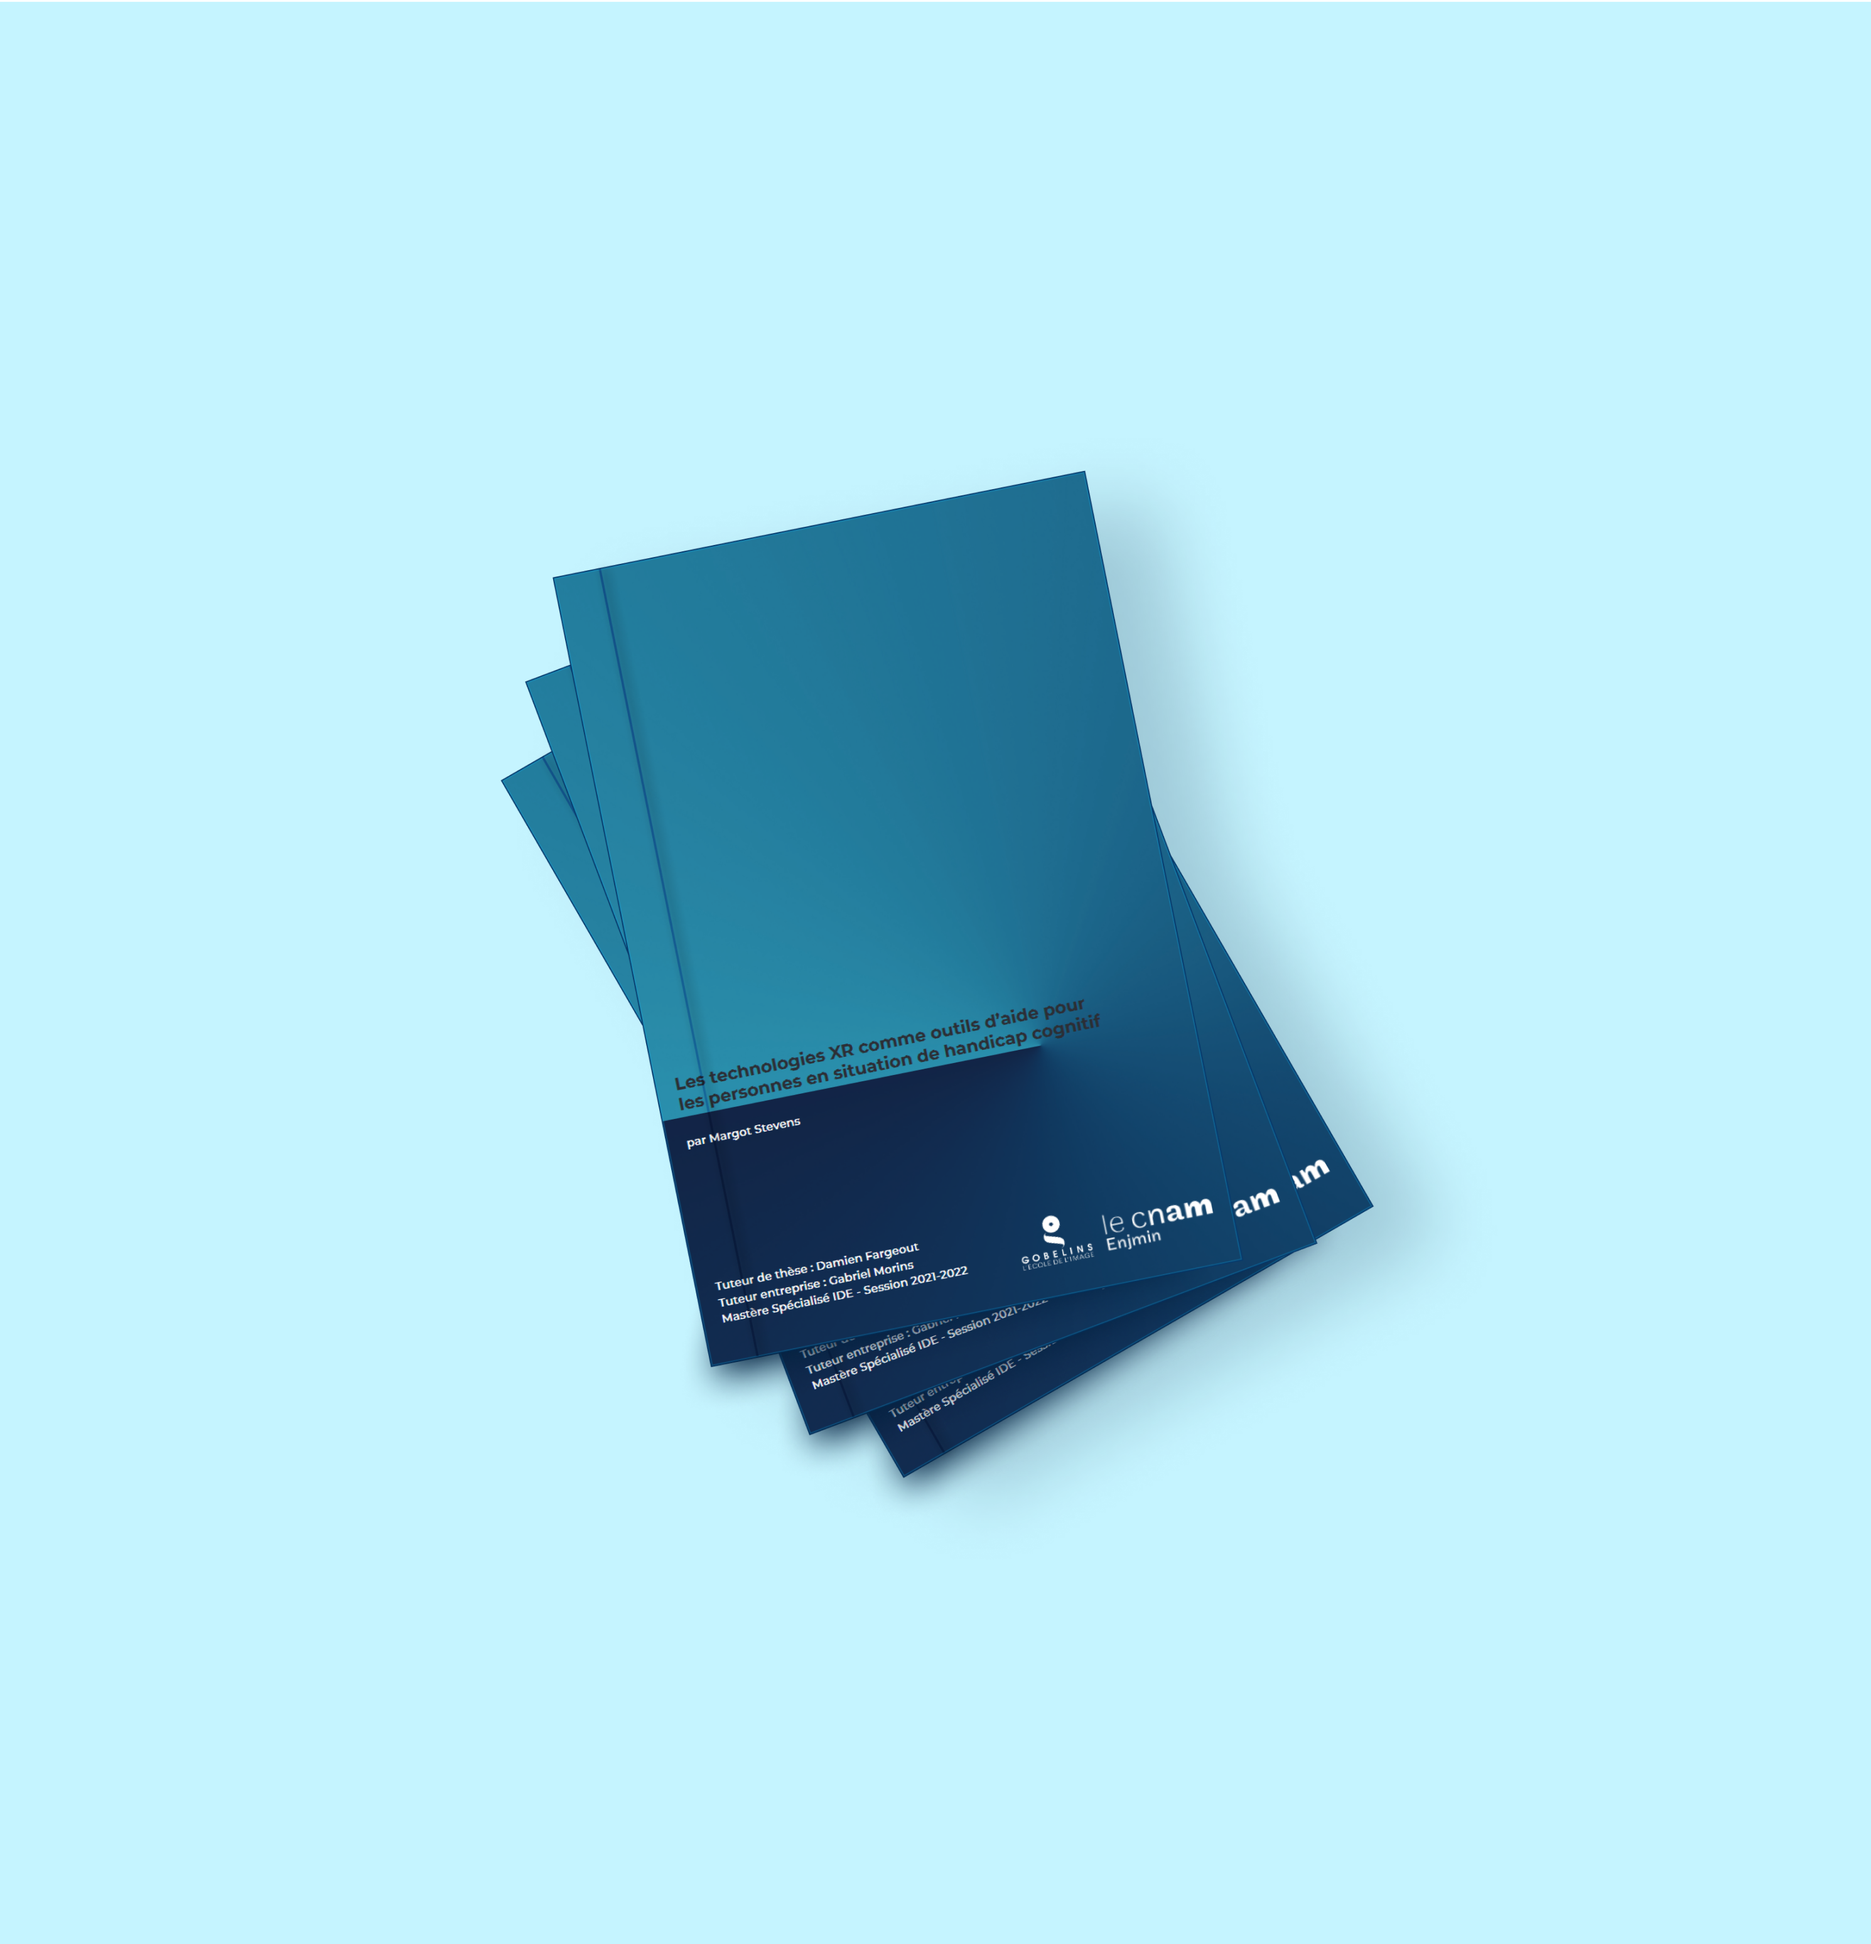
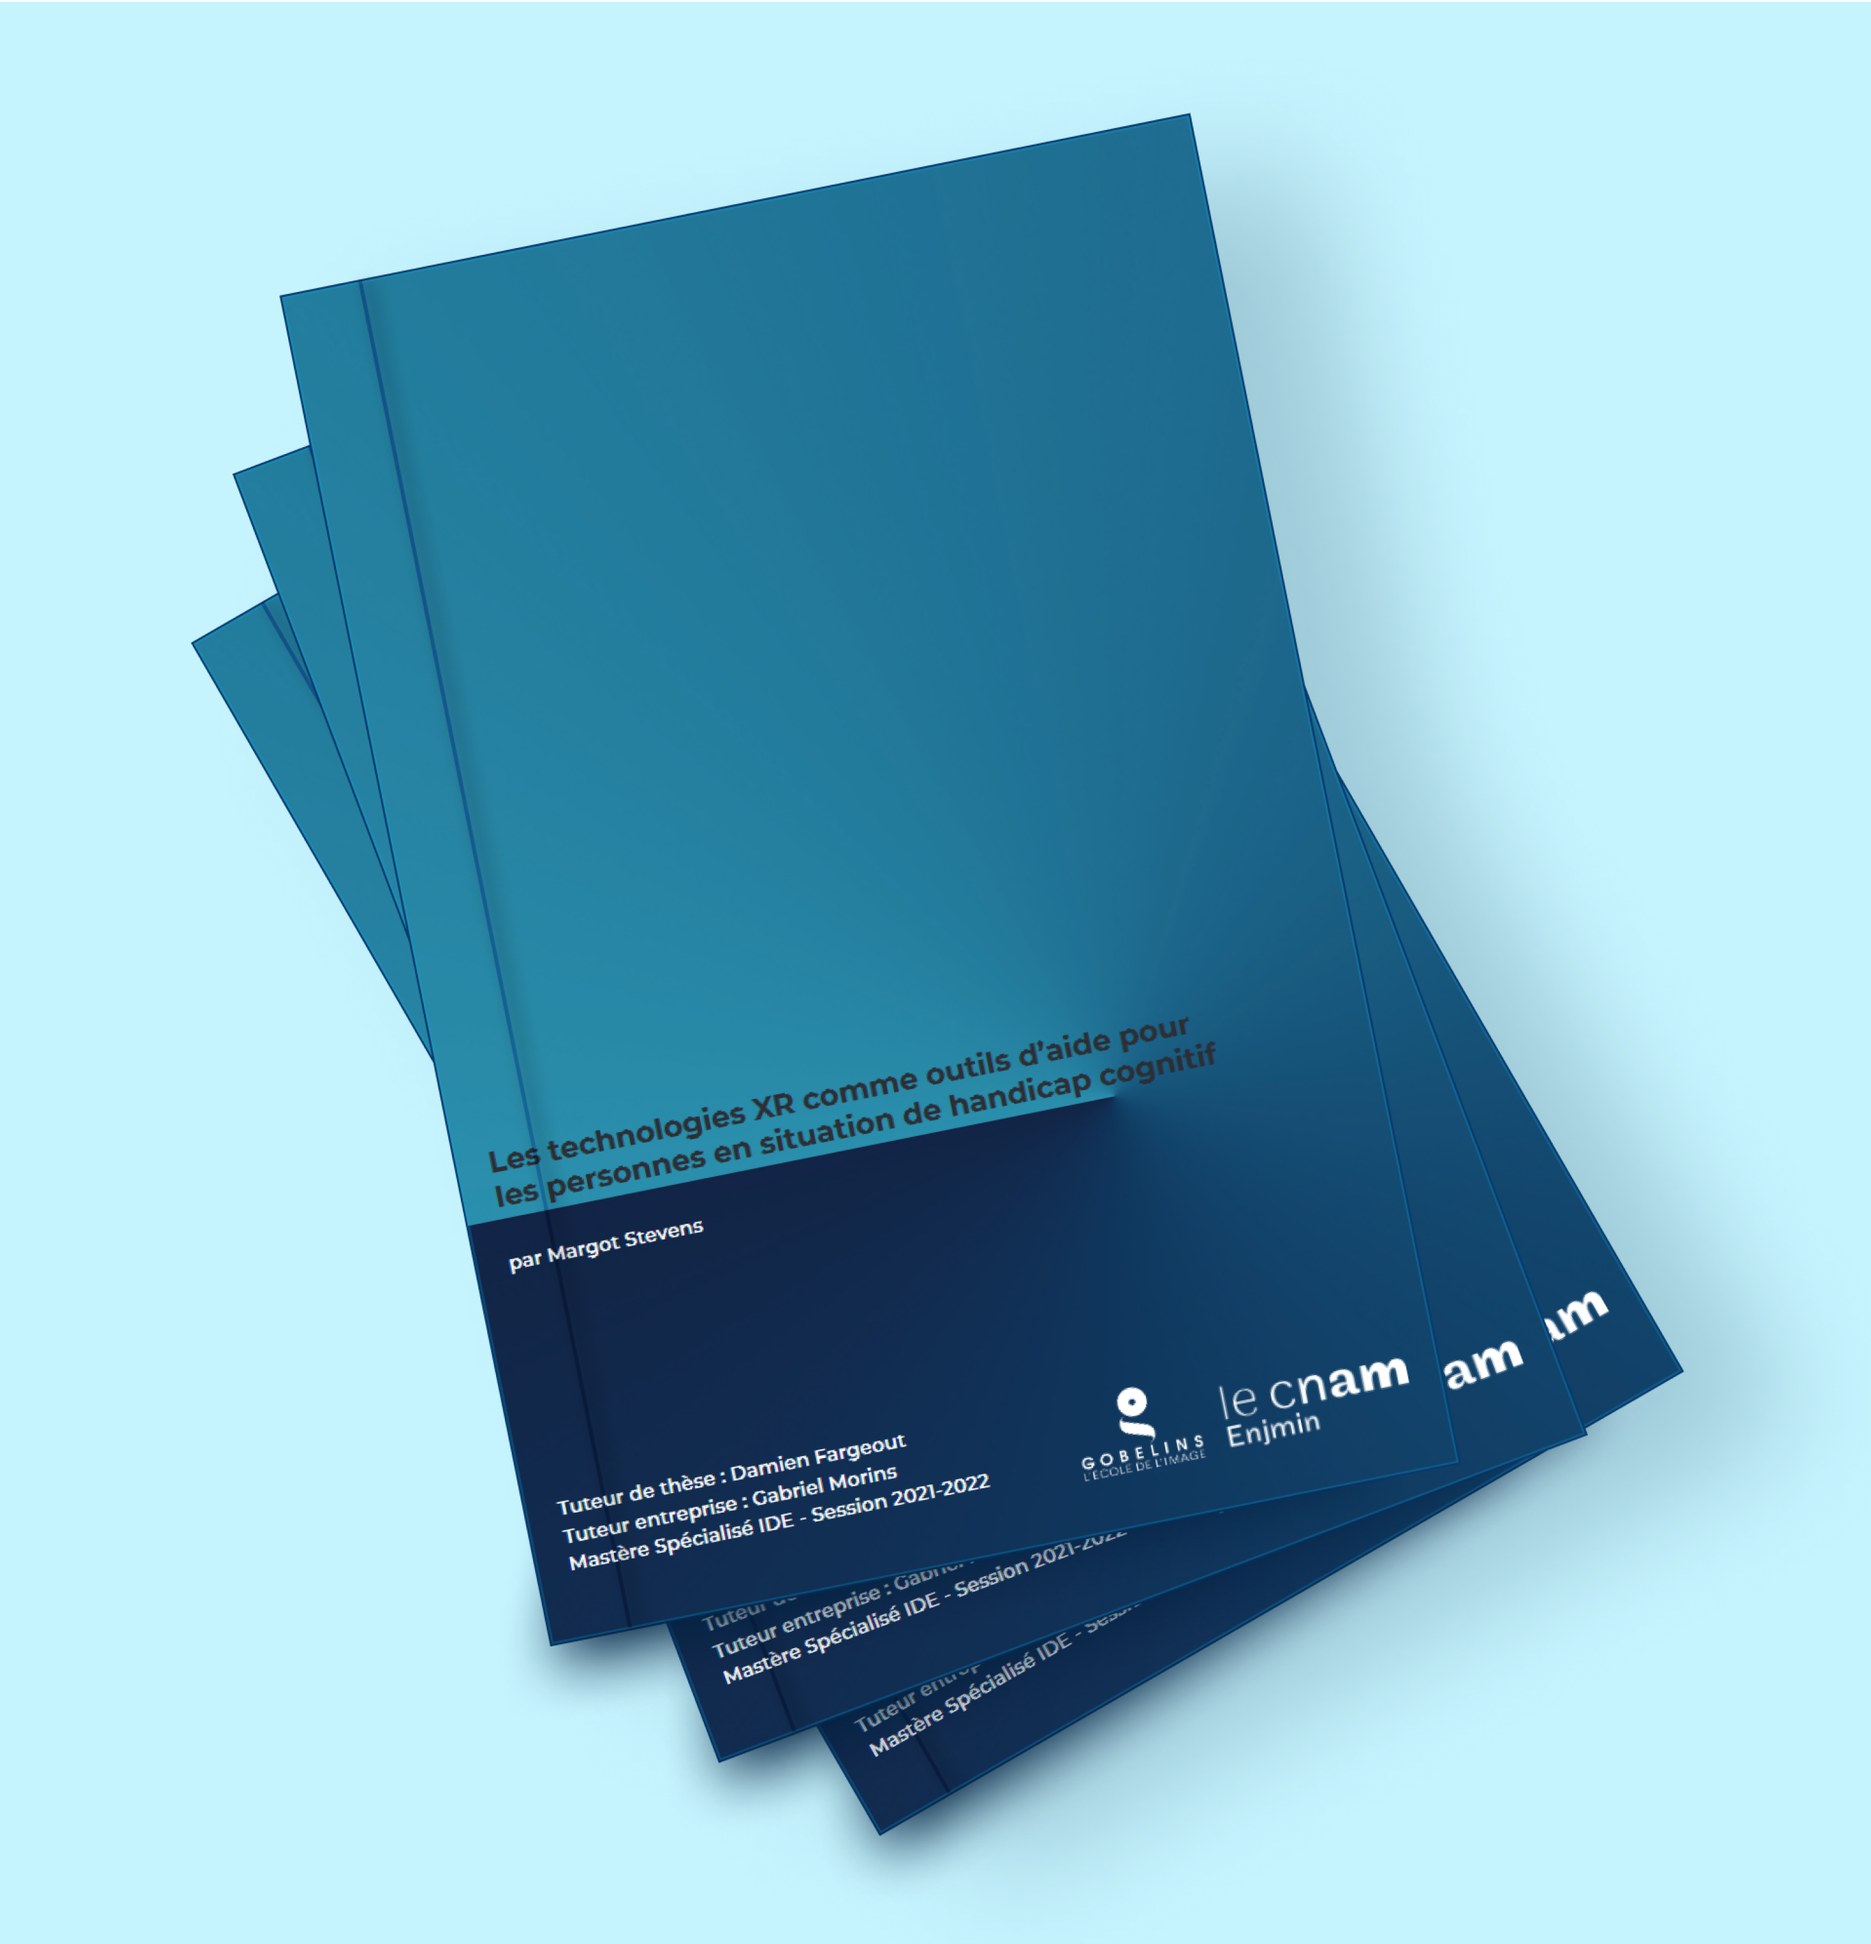
img

diff --git a/src/content_option.js b/src/content_option.js
@@ -149,7 +149,7 @@ const services = [{
     },
 ];
 const dataportfolio = [{
-        img: "https://picsum.photos/400/?grayscale",
+        img: "https://github.com/stevensmt/portfolio/blob/master/src/assets/images/these.png?raw=true",
         description: "The wisdom of life consists in the elimination of non-essentials.",
         link: "#",
     },
